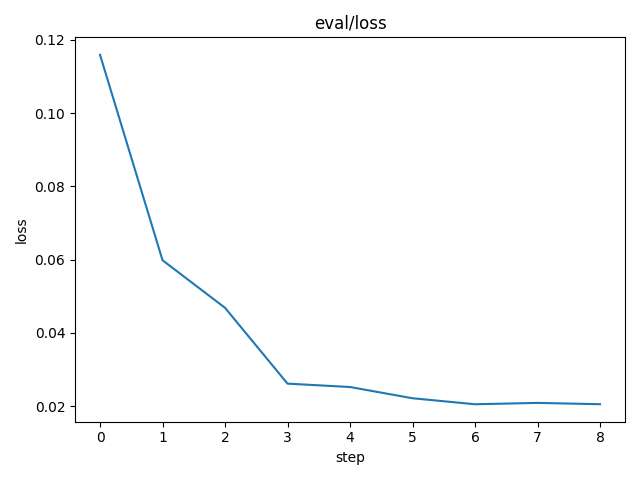
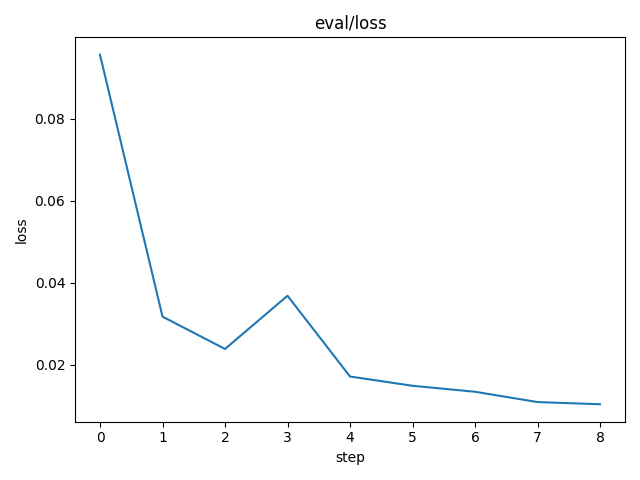
increate data size

diff --git a/results/evaluate/report.md b/results/evaluate/report.md
@@ -4,24 +4,24 @@ metrics.json
 
 |   dice_multi |
 |--------------|
-|     0.918662 |
+|     0.928445 |
 
-![REGION_1-24_0_1024_0_1024.png](plots/images/REGION_1-24_0_1024_0_1024.png)
+![REGION_1-24_0_1024_2048_3072.png](plots/images/REGION_1-24_0_1024_2048_3072.png)
 
-![REGION_1-24_1136_2160_1024_2048.png](plots/images/REGION_1-24_1136_2160_1024_2048.png)
+![REGION_1-24_1136_2160_0_1024 copy.png](plots/images/REGION_1-24_1136_2160_0_1024 copy.png)
 
-![REGION_3-25_1136_2160_0_1024.png](plots/images/REGION_3-25_1136_2160_0_1024.png)
+![REGION_2-4_1024_2048_2816_3840.png](plots/images/REGION_2-4_1024_2048_2816_3840.png)
 
-![REGION_3-8_1024_2048_2816_3840.png](plots/images/REGION_3-8_1024_2048_2816_3840.png)
+![REGION_3-25_1136_2160_1024_2048 copy.png](plots/images/REGION_3-25_1136_2160_1024_2048 copy.png)
 
-![REGION_4-12_0_1024_2816_3840.png](plots/images/REGION_4-12_0_1024_2816_3840.png)
+![REGION_3-8_1024_2048_1024_2048 copy.png](plots/images/REGION_3-8_1024_2048_1024_2048 copy.png)
 
-![REGION_4-12_1136_2160_2048_3072.png](plots/images/REGION_4-12_1136_2160_2048_3072.png)
+![REGION_4-12_1024_2048_2048_3072 copy.png](plots/images/REGION_4-12_1024_2048_2048_3072 copy.png)
 
-![REGION_5-7_1136_2160_1024_2048.png](plots/images/REGION_5-7_1136_2160_1024_2048.png)
+![REGION_5-7_1024_2048_2048_3072.png](plots/images/REGION_5-7_1024_2048_2048_3072.png)
 
-![REGION_7-3_0_1024_2048_3072.png](plots/images/REGION_7-3_0_1024_2048_3072.png)
+![REGION_5-7_1136_2160_2816_3840.png](plots/images/REGION_5-7_1136_2160_2816_3840.png)
 
-![REGION_8-24_0_1024_1024_2048.png](plots/images/REGION_8-24_0_1024_1024_2048.png)
+![REGION_6-13_0_1024_1024_2048 copy.png](plots/images/REGION_6-13_0_1024_1024_2048 copy.png)
 
-![REGION_8-24_1024_2048_2048_3072.png](plots/images/REGION_8-24_1024_2048_2048_3072.png)
+![REGION_7-3_1136_2160_2048_3072 copy.png](plots/images/REGION_7-3_1136_2160_2048_3072 copy.png)

diff --git a/results/train/report.md b/results/train/report.md
@@ -4,13 +4,13 @@ params.yaml
 
 | model       |   batch_size |   batch_per_epoch | frozen   |   frozen_idx | transforms                                                      |
 |-------------|--------------|-------------------|----------|--------------|-----------------------------------------------------------------|
-| DynamicUnet |            8 |                 8 | False    |            0 | [Pipeline: PILBase.create, Pipeline: partial -> PILBase.create] |
+| DynamicUnet |            8 |                16 | False    |            0 | [Pipeline: PILBase.create, Pipeline: partial -> PILBase.create] |
 
 metrics.json
 
 | train                          | eval                           |   dice_multi |   step |
 |--------------------------------|--------------------------------|--------------|--------|
-| {'loss': 0.024200882762670517} | {'loss': 0.020534532144665718} |     0.893824 |      8 |
+| {'loss': 0.014939487911760807} | {'loss': 0.010426105000078678} |     0.936115 |      8 |
 
 ![static/dice_multi](static/dice_multi.png)
 
